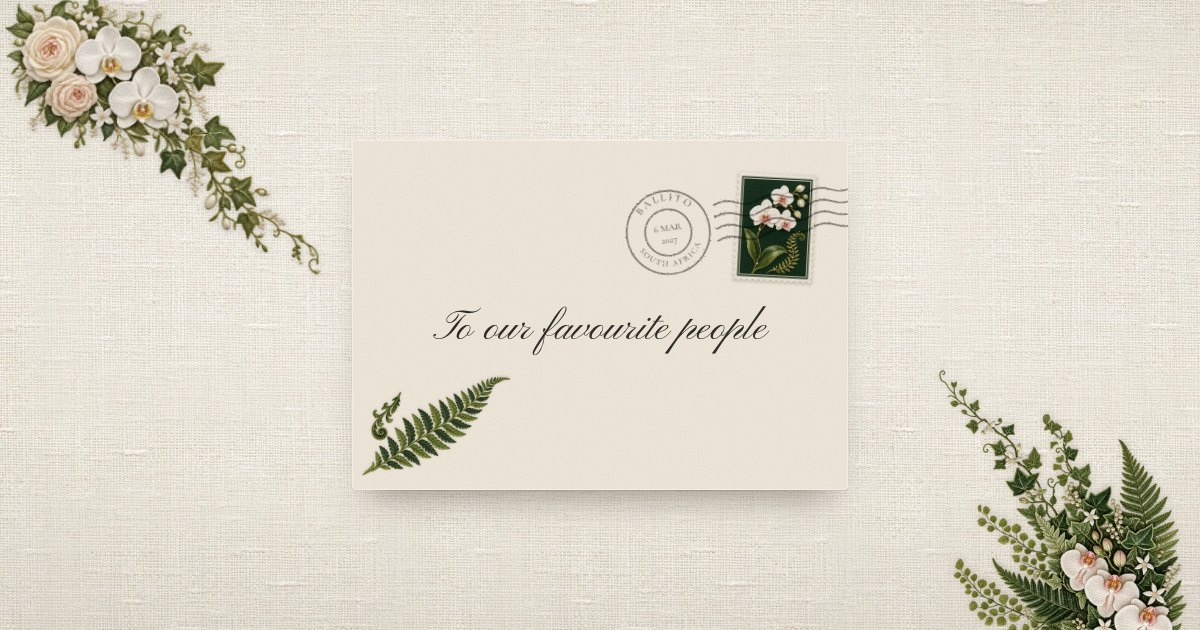
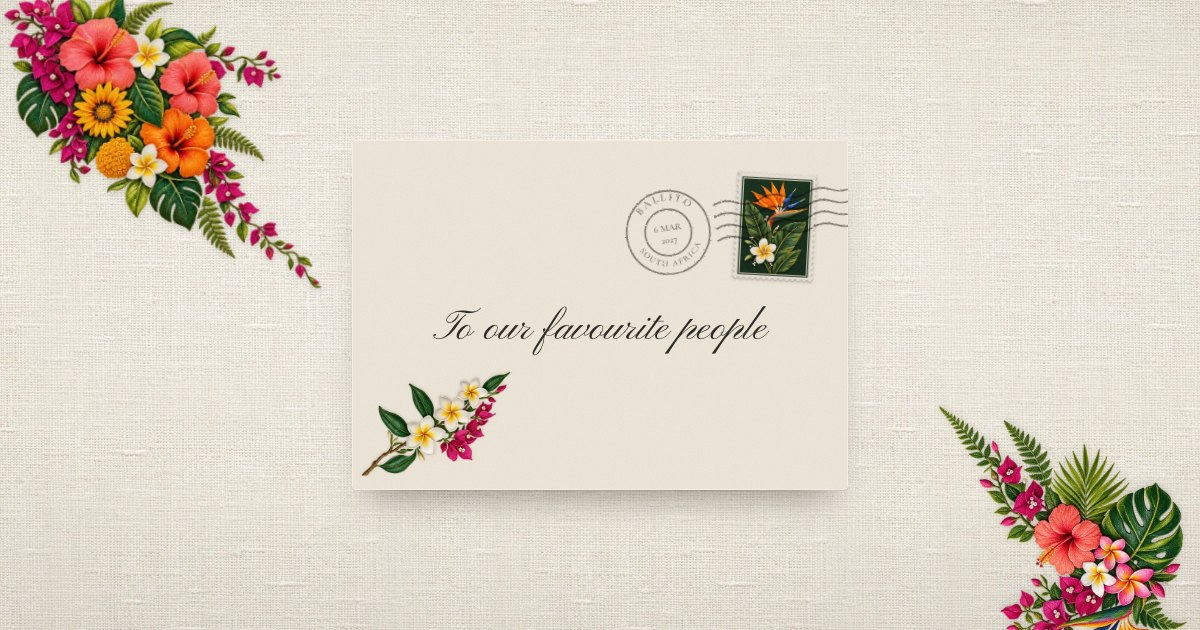
Coastal flowers, 2pm arrival, running order, pop of colour
- Every floral piece redrawn in bright coastal colour (bougainvillea,
  hibiscus, frangipani, bird-of-paradise) to match the dress code,
  including the cover arch, stamp, liner, cake and gramophone
- The Celebrations (where and when) now comes before The Details, which
  is a running order: arrive 2pm, ceremony 3pm, reception and dinner,
  carriages 11pm
- Dress code drops the accessories picture for a pop-of-colour note
- Calendar entry starts at the 2pm arrival

diff --git a/site/index.html b/site/index.html
@@ -47,8 +47,8 @@
 <!-- ============ THE ENVELOPE (shown first, opened by script.js) ============ -->
 <div class="scene" id="scene">
   <div class="scene-vignette" id="scene-vignette"></div>
-  <img class="scene-sprig scene-sprig--top" src="assets/florals-corner.webp" width="640" height="637" alt="">
-  <img class="scene-sprig scene-sprig--bottom" src="assets/fern-spray.webp" width="680" height="846" alt="">
+  <img class="scene-sprig scene-sprig--top" src="assets/coastal-corner.webp" width="640" height="667" alt="">
+  <img class="scene-sprig scene-sprig--bottom" src="assets/coastal-spray.webp" width="680" height="748" alt="">
 
   <div class="envelope" id="envelope" aria-hidden="true">
     <div class="env-back is-hidden" id="env-back">
@@ -78,7 +78,7 @@
     </div>
 
     <div class="env-front" id="env-front">
-      <img class="env-stamp" src="assets/stamp.webp" width="300" height="408" alt="">
+      <img class="env-stamp" src="assets/stamp.webp" width="300" height="398" alt="">
       <svg class="env-postmark" viewBox="0 0 200 80" focusable="false">
         <defs>
           <path id="pm-top" d="M 13 40 A 27 27 0 0 1 67 40"/>
@@ -106,7 +106,7 @@
         </g>
       </svg>
       <p class="env-to"><span class="env-recipient" id="recipient">To our favourite people</span></p>
-      <img class="env-sprig" src="assets/fern-frond.webp" width="720" height="477" alt="">
+      <img class="env-sprig" src="assets/coastal-sprig.webp" width="720" height="501" alt="">
     </div>
   </div>
 
@@ -119,8 +119,8 @@
 <!-- Wide screens only: the same sprigs as on the envelope's table, so the
      page keeps the setting once the letter is open. -->
 <div class="table-decor" id="table-decor" aria-hidden="true">
-  <img class="table-sprig table-sprig--top" src="assets/florals-corner.webp" width="640" height="637" alt="">
-  <img class="table-sprig table-sprig--bottom" src="assets/fern-spray.webp" width="680" height="846" alt="">
+  <img class="table-sprig table-sprig--top" src="assets/coastal-corner.webp" width="640" height="667" alt="">
+  <img class="table-sprig table-sprig--bottom" src="assets/coastal-spray.webp" width="680" height="748" alt="">
 </div>
 
 <main class="suite" id="invitation">
@@ -129,7 +129,7 @@
   <header class="hero" id="top">
     <article class="hero-card" id="hero-card" tabindex="-1">
       <p class="eyebrow">The wedding of</p>
-      <img class="hero-arch" src="assets/hero-arch.webp" width="997" height="1497" alt="Benjamin and Talisha in a black-and-white photograph, framed by an embroidered stone arch of roses, orchids and hanging pearls">
+      <img class="hero-arch" src="assets/hero-arch.webp" width="974" height="1499" alt="Benjamin and Talisha in a black-and-white photograph, framed by an embroidered stone arch of bougainvillea, hibiscus and frangipani">
       <h1 class="names">Benjamin <span class="amp">&amp;</span> Talisha</h1>
       <p class="hero-date">Saturday · 6 March 2027</p>
       <p class="hero-place">Collisheen Estate · Ballito</p>
@@ -139,8 +139,8 @@
 
   <!-- ============ 2. INVITATION + COUNTDOWN ============ -->
   <section class="families" id="invite" aria-labelledby="invite-title">
-    <img class="garland garland--left" src="assets/florals-vertical.webp" width="289" height="1200" alt="" loading="lazy" decoding="async">
-    <img class="garland garland--right" src="assets/florals-vertical.webp" width="289" height="1200" alt="" loading="lazy" decoding="async">
+    <img class="garland garland--left" src="assets/coastal-garland.webp" width="327" height="1200" alt="" loading="lazy" decoding="async">
+    <img class="garland garland--right" src="assets/coastal-garland.webp" width="327" height="1200" alt="" loading="lazy" decoding="async">
 
     <h2 class="script-title" id="invite-title">Please join us</h2>
     <p class="lede invite-lede">as we say &ldquo;I do&rdquo; in a little chapel among the trees</p>
@@ -158,36 +158,13 @@
       <p class="caps">Add it to your calendar</p>
       <p class="calendar-links">
         <a class="text-link" href="assets/wedding.ics">Apple &amp; Outlook</a>
-        <a class="text-link" href="https://calendar.google.com/calendar/render?action=TEMPLATE&amp;text=Benjamin%20%26%20Talisha%27s%20Wedding&amp;dates=20270306T130000Z%2F20270306T210000Z&amp;location=Orchid%20House%2C%20Collisheen%20Estate%2C%20Esenembi%20Road%2C%20Ballito&amp;details=Ceremony%20at%203pm%20in%20the%20chapel%20at%20Orchid%20House%2C%20with%20the%20reception%20to%20follow.%20https%3A%2F%2Fbenrodrigues05.github.io%2Frodrigues-wedding%2F" target="_blank" rel="noopener">Google Calendar</a>
+        <a class="text-link" href="https://calendar.google.com/calendar/render?action=TEMPLATE&amp;text=Benjamin%20%26%20Talisha%27s%20Wedding&amp;dates=20270306T120000Z%2F20270306T210000Z&amp;location=Orchid%20House%2C%20Collisheen%20Estate%2C%20Esenembi%20Road%2C%20Ballito&amp;details=Please%20arrive%20by%202pm.%20Ceremony%20at%203pm%20in%20the%20chapel%20at%20Orchid%20House%2C%20reception%20to%20follow%20until%2011pm.%20https%3A%2F%2Fbenrodrigues05.github.io%2Frodrigues-wedding%2F" target="_blank" rel="noopener">Google Calendar</a>
       </p>
     </div>
   </section>
 
 
-  <!-- ============ 3. THE DETAILS (striped linen) ============ -->
-  <section class="details" id="details" aria-labelledby="details-title">
-    <div class="details-panel">
-      <img class="motif details-tl" src="assets/fern-spray.webp" width="680" height="846" alt="" loading="lazy" decoding="async">
-      <img class="motif details-tr" src="assets/lanterns.webp" width="434" height="640" alt="" loading="lazy" decoding="async">
-      <h2 class="script-title details-title" id="details-title">The Details</h2>
-
-      <div class="event">
-        <h3 class="script-sub">The Ceremony</h3>
-        <p class="lines"><span>Orchid House Chapel</span><span>Saturday 6 March 2027</span><span>3:00 pm</span></p>
-      </div>
-      <span class="pearl-rule" aria-hidden="true"></span>
-      <div class="event">
-        <h3 class="script-sub">The Reception</h3>
-        <p class="lines"><span>Orchid House</span><span>After the ceremony</span><span>Until 11:00 pm</span></p>
-      </div>
-
-      <img class="motif details-bl" src="assets/champagne.webp" width="520" height="579" alt="" loading="lazy" decoding="async">
-      <img class="motif details-br" src="assets/cake.webp" width="409" height="640" alt="" loading="lazy" decoding="async">
-    </div>
-  </section>
-
-
-  <!-- ============ 4. THE VENUE ============ -->
+  <!-- ============ 3. THE CELEBRATIONS: where and when ============ -->
   <section class="celebrations" id="venue" aria-labelledby="venue-title">
     <h2 class="script-title" id="venue-title">The Celebrations</h2>
     <img class="motif chapel" src="assets/chapel.webp" width="1000" height="745" alt="An embroidered white chapel with a green roof beneath huge old trees strung with fairy lights" loading="lazy" decoding="async">
@@ -196,10 +173,46 @@
       <h3 class="venue-name">Orchid House</h3>
       <p class="venue-desc">A garden chapel ceremony beneath the old trees of Collisheen Estate, with the reception to follow under the fairy lights</p>
       <span class="rule" aria-hidden="true"></span>
-      <p class="venue-when"><span>Saturday 6 March 2027</span><span>3:00 pm until 11:00 pm</span></p>
+      <p class="venue-when"><span>Saturday 6 March 2027</span><span>Please arrive by 2:00 pm</span><span class="venue-when-small">for the ceremony at 3:00 pm</span></p>
       <p class="venue-address"><span>Collisheen Estate</span><span>Esenembi Road, Ballito</span></p>
       <a class="text-link" href="https://www.google.com/maps/search/?api=1&amp;query=Collisheen%20Estate%20Ballito" target="_blank" rel="noopener">View on map</a>
       <img class="venue-key" src="assets/key.webp" width="257" height="360" alt="" loading="lazy" decoding="async">
+    </div>
+  </section>
+
+
+  <!-- ============ 4. THE DETAILS: the running order (striped linen) ============ -->
+  <section class="details" id="details" aria-labelledby="details-title">
+    <div class="details-panel">
+      <img class="motif details-tl" src="assets/coastal-spray.webp" width="680" height="748" alt="" loading="lazy" decoding="async">
+      <img class="motif details-tr" src="assets/lanterns.webp" width="434" height="640" alt="" loading="lazy" decoding="async">
+      <h2 class="script-title details-title" id="details-title">The Details</h2>
+
+      <!-- TODO: reception and dinner times when confirmed -->
+      <ol class="timeline">
+        <li class="moment">
+          <p class="moment-time">2:00 pm</p>
+          <h3 class="script-sub">Guests arrive</h3>
+        </li>
+        <li class="moment">
+          <p class="moment-time">3:00 pm</p>
+          <h3 class="script-sub">The Ceremony</h3>
+          <p class="moment-note">Orchid House Chapel</p>
+        </li>
+        <li class="moment">
+          <p class="moment-time">To follow</p>
+          <h3 class="script-sub">Reception &amp; Dinner</h3>
+          <p class="moment-note">Orchid House</p>
+        </li>
+        <li class="moment">
+          <p class="moment-time">11:00 pm</p>
+          <h3 class="script-sub">Carriages</h3>
+          <p class="moment-note">Time to say goodnight</p>
+        </li>
+      </ol>
+
+      <img class="motif details-bl" src="assets/champagne.webp" width="520" height="579" alt="" loading="lazy" decoding="async">
+      <img class="motif details-br" src="assets/cake.webp" width="385" height="640" alt="" loading="lazy" decoding="async">
     </div>
   </section>
 
@@ -208,8 +221,8 @@
   <section class="dress" id="dress-code" aria-labelledby="dress-title">
     <div class="napkin">
       <div class="napkin-sprigs">
-        <img class="motif" src="assets/fern-spray.webp" width="680" height="846" alt="" loading="lazy" decoding="async">
-        <img class="motif" src="assets/fern-frond.webp" width="720" height="477" alt="" loading="lazy" decoding="async">
+        <img class="motif" src="assets/coastal-corner.webp" width="640" height="667" alt="" loading="lazy" decoding="async">
+        <img class="motif" src="assets/coastal-sprig.webp" width="720" height="501" alt="" loading="lazy" decoding="async">
       </div>
       <img class="motif guests" src="assets/guests.webp" width="1100" height="697" alt="Embroidered guests in terracotta, orange, marigold, chartreuse, fuchsia and plum gowns, and sand and forest-green suits" loading="lazy" decoding="async">
       <h2 class="script-title" id="dress-title">Dress Code</h2>
@@ -217,14 +230,17 @@
       <p class="lines lines--soft"><span>Bold, joyful colour</span><span>Silks, ruffles &amp; a little sparkle</span><span>Please avoid white</span></p>
       <img class="motif threads" src="assets/threads.webp" width="1000" height="396" alt="Spools of thread in terracotta, orange, marigold, chartreuse, emerald, fuchsia and plum" loading="lazy" decoding="async">
       <p class="palette-note">Think terracotta, marigold, chartreuse, emerald, fuchsia and plum.</p>
-      <img class="motif accessories" src="assets/accessories.webp" width="960" height="383" alt="" loading="lazy" decoding="async">
+      <div class="pop">
+        <p class="script-sub pop-title">A pop of colour</p>
+        <p class="pop-note">No need to buy a whole new outfit. If your best dress or suit isn&rsquo;t in these shades, add a splash of colour instead: a bright tie or bow tie with a dark suit, or a hat, fascinator or scarf that matches the palette.</p>
+      </div>
     </div>
   </section>
 
 
   <!-- ============ 6. WHERE TO STAY ============ -->
   <section class="stay" id="stay" aria-labelledby="stay-title">
-    <img class="motif nightstand" src="assets/nightstand.webp" width="235" height="480" alt="" loading="lazy" decoding="async">
+    <img class="motif nightstand" src="assets/nightstand.webp" width="295" height="480" alt="" loading="lazy" decoding="async">
     <h2 class="script-title" id="stay-title">Where to Stay</h2>
     <p class="caps">Good-value stays near Ballito Junction</p>
     <p class="lede">Ballito Junction is a short drive from the venue, with plenty of places to eat nearby. A few of our picks:</p>
@@ -272,7 +288,7 @@
   <!-- ============ 8. RSVP (reply card) ============ -->
   <section class="rsvp" id="rsvp" aria-labelledby="rsvp-title">
     <div class="reply-card">
-      <img class="reply-stamp" src="assets/stamp.webp" width="300" height="408" alt="" loading="lazy" decoding="async">
+      <img class="reply-stamp" src="assets/stamp.webp" width="300" height="398" alt="" loading="lazy" decoding="async">
       <h2 class="script-title" id="rsvp-title">Kindly Reply</h2>
       <p class="reply-by">by 1 December 2026</p>
       <p class="reply-note">One reply covers everyone your invitation is addressed to.</p>
@@ -335,7 +351,7 @@
   <!-- ============ 9. THE PLAYLIST (fringed napkin) ============ -->
   <section class="playlist" id="playlist" aria-labelledby="playlist-title">
     <div class="napkin napkin--playlist">
-      <img class="motif gramophone" src="assets/gramophone.webp" width="640" height="683" alt="" loading="lazy" decoding="async">
+      <img class="motif gramophone" src="assets/gramophone.webp" width="640" height="762" alt="" loading="lazy" decoding="async">
       <h2 class="script-title" id="playlist-title">The Playlist</h2>
       <p class="lede">Which songs get you on the dance floor? Suggest one or two for our wedding playlist.</p>
 

diff --git a/site/styles.css b/site/styles.css
@@ -626,13 +626,40 @@ html.js:not(.is-open) body { overflow: hidden; }
   margin-top: .2rem;
   z-index: 1;
 }
-.event {
+.timeline {                    /* the running order of the day */
   grid-column: 1 / -1;
-  display: grid;
-  gap: .55rem;
-  margin-top: 1.3rem;
+  margin: .6rem 0 0;
+  padding: 0;
+  list-style: none;
 }
-.details-panel .pearl-rule { grid-column: 1 / -1; margin-bottom: .3rem; }
+.moment {
+  display: grid;
+  justify-items: center;
+  gap: .2rem;
+  padding-block: 1.05rem;
+}
+.moment + .moment {            /* a pearl on a thread between moments */
+  padding-top: 1.6rem;
+  background:
+    radial-gradient(circle at 42% 38%, #fff 0, #F2ECE2 1.6px, #D3C8B5 4px, rgba(211, 200, 181, 0) 4.6px) 50% 0 / 10px 10px no-repeat,
+    linear-gradient(rgba(var(--shadow), .28), rgba(var(--shadow), .28)) 50% 4.5px / 6rem 1px no-repeat;
+}
+.moment-time {
+  margin: 0;
+  font: 600 .8rem/1.4 var(--font-serif);
+  letter-spacing: .26em;
+  padding-left: .26em;
+  text-transform: uppercase;
+  color: var(--sage-deep);
+}
+.moment-note {
+  margin: 0;
+  font: 600 .74rem/1.5 var(--font-serif);
+  letter-spacing: .16em;
+  padding-left: .16em;
+  text-transform: uppercase;
+  color: var(--ink-soft);
+}
 .details-bl {
   grid-column: 1;
   width: 66%;
@@ -679,6 +706,7 @@ html.js:not(.is-open) body { overflow: hidden; }
   font-style: italic;
   font-size: 1.3rem;
 }
+.venue-when-small { font-size: 1.08rem; color: var(--ink-soft); }
 .venue-address {
   display: grid;
   margin: 0 0 .3rem;
@@ -746,7 +774,9 @@ html.js:not(.is-open) body { overflow: hidden; }
   text-wrap: balance;
   color: var(--ink-soft);
 }
-.dress .accessories { width: 86%; margin: 1.5rem auto 0; }
+.pop { max-width: 30ch; margin: 1.9rem auto 0; }
+.pop-title { font-size: clamp(1.7rem, 7.4vw, 2.1rem); }
+.pop-note { margin: .45rem 0 0; font-style: italic; text-wrap: balance; color: var(--ink-soft); }
 
 
 /* --- 6. where to stay --- */

diff --git a/tools/make_hero.py b/tools/make_hero.py
@@ -58,7 +58,7 @@ def main():
     y0, y1, x0, x1 = box[0].min(), box[0].max(), box[1].min(), box[1].max()
     hero = hero.crop((max(x0 - 4, 0), max(y0 - 4, 0), min(x1 + 5, hero.width), min(y1 + 5, hero.height)))
     hero.save(OUT, "WEBP", quality=80, method=6)
-    print(f"wrote {OUT} ({hero.width}x{hero.height}); index.html expects 997x1497")
+    print(f"wrote {OUT} ({hero.width}x{hero.height}); index.html expects 974x1499")
 
 
 if __name__ == "__main__":

diff --git a/tools/ART.md b/tools/ART.md
@@ -52,6 +52,26 @@ Ballito. Their web copies are in `source/retired/`.
 | fern and orchid envelope liner (opaque) | 4814aa59-816c-4ec1-89b7-f89166a41899 |
 | guest cottage | d7332d27-370f-46b5-b9f7-634fd184c651 |
 
+### Coastal flowers (6 October 2026, second pass)
+
+Every floral piece was redrawn in bright coastal colour to match the dress
+code. The orchid and fern versions (cover arch, corner sprays, garland, fern
+frond, orchid stamp, liner, cake, gramophone, bedside vase) and the gold
+accessories are in `source/retired/`.
+
+| Asset | Higgsfield job |
+|---|---|
+| cover arch frame (`source/arch-frame.png`) | 4ddf2bc5-f72f-4261-9f80-a0556298d008 |
+| corner spray (bougainvillea, hibiscus) | 901627f8-8150-4771-b4d1-e4e26cd7245a |
+| corner spray (bird-of-paradise) | 74ceec87-e08a-4a3c-8d32-68e75864ba41 |
+| side garland | a3133a8c-e4c6-4005-890e-28662067cffc |
+| frangipani sprig (envelope, dress code) | dad11651-4935-4bc1-8df4-d6d7b72ab23e |
+| bird-of-paradise stamp | 45ddc074-53e7-42ff-b867-ad59a76c9180 |
+| envelope liner (opaque) | a5aebb7c-bf6e-416e-b54b-6bfa6336e188 |
+| wedding cake | 04b0efcb-1cc2-42e2-84d3-67aafc990b3a |
+| gramophone (playlist) | 8ef3ca4e-8144-450b-9055-242d29804314 |
+| bedside table with vase | 78fa2c60-ea39-4a05-b423-ef9b52973b30 |
+
 Made by code rather than generated: the envelope, postmark, napkin fringe
 (`fringe.svg`), paper grain, stitching, link-preview image (`og.jpg`, a
 screenshot of the envelope) and the icons (the wax seal on paper).

diff --git a/README.md b/README.md
@@ -27,17 +27,19 @@ To look at it locally, open `site/index.html` in a browser.
 ## The details on the invite
 
 - Benjamin Rodrigues & Talisha Grobler
-- Saturday 6 March 2027, ceremony 3:00 pm (South African time)
+- Saturday 6 March 2027 (South African time)
 - The chapel at Orchid House, Collisheen Estate, Esenembi Road, Ballito
-- Reception at Orchid House after the ceremony, until 11:00 pm
+- Running order: guests arrive 2:00 pm, ceremony 3:00 pm, reception and
+  dinner to follow (times to come), carriages 11:00 pm
 - RSVP by 1 December 2026
 - No plus-ones: each invitation is for the person, couple or family it's
   addressed to, and one reply covers all of them
 - Dress code: Garden Formal, bold colour (terracotta, marigold, chartreuse,
-  emerald, fuchsia, plum), please avoid white
+  emerald, fuchsia, plum), please avoid white; a pop of colour (tie, bow tie,
+  hat, fascinator, scarf) is fine for anyone not buying something new
 - Where to stay: Regal Inn Ballito, La Residence, Vallen Lodge, plus a link to
   more on LekkeSlaap (prices checked October 2026)
-- The calendar file and Google link run 3 pm to 11 pm
+- The calendar file and Google link run 2 pm (arrival) to 11 pm
 
 ## RSVPs
 
